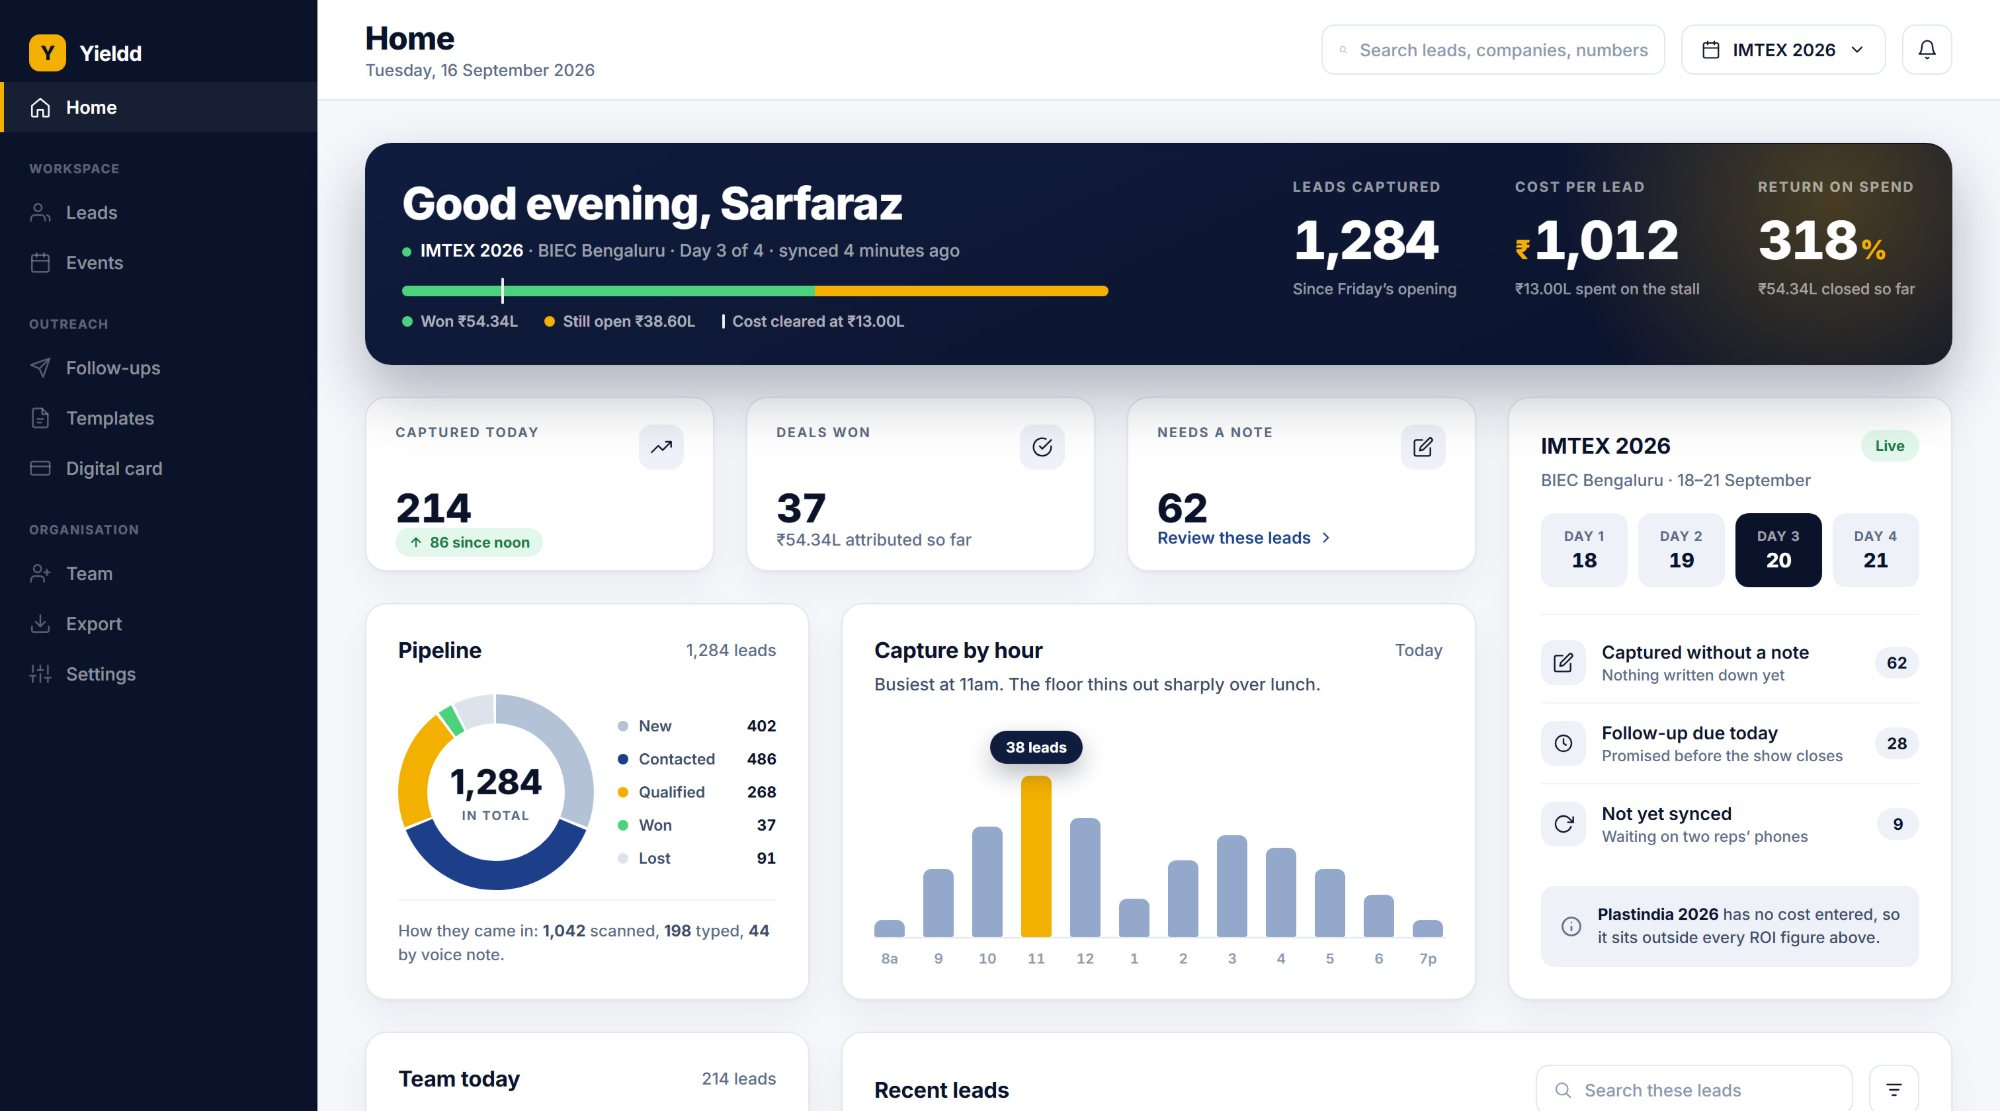
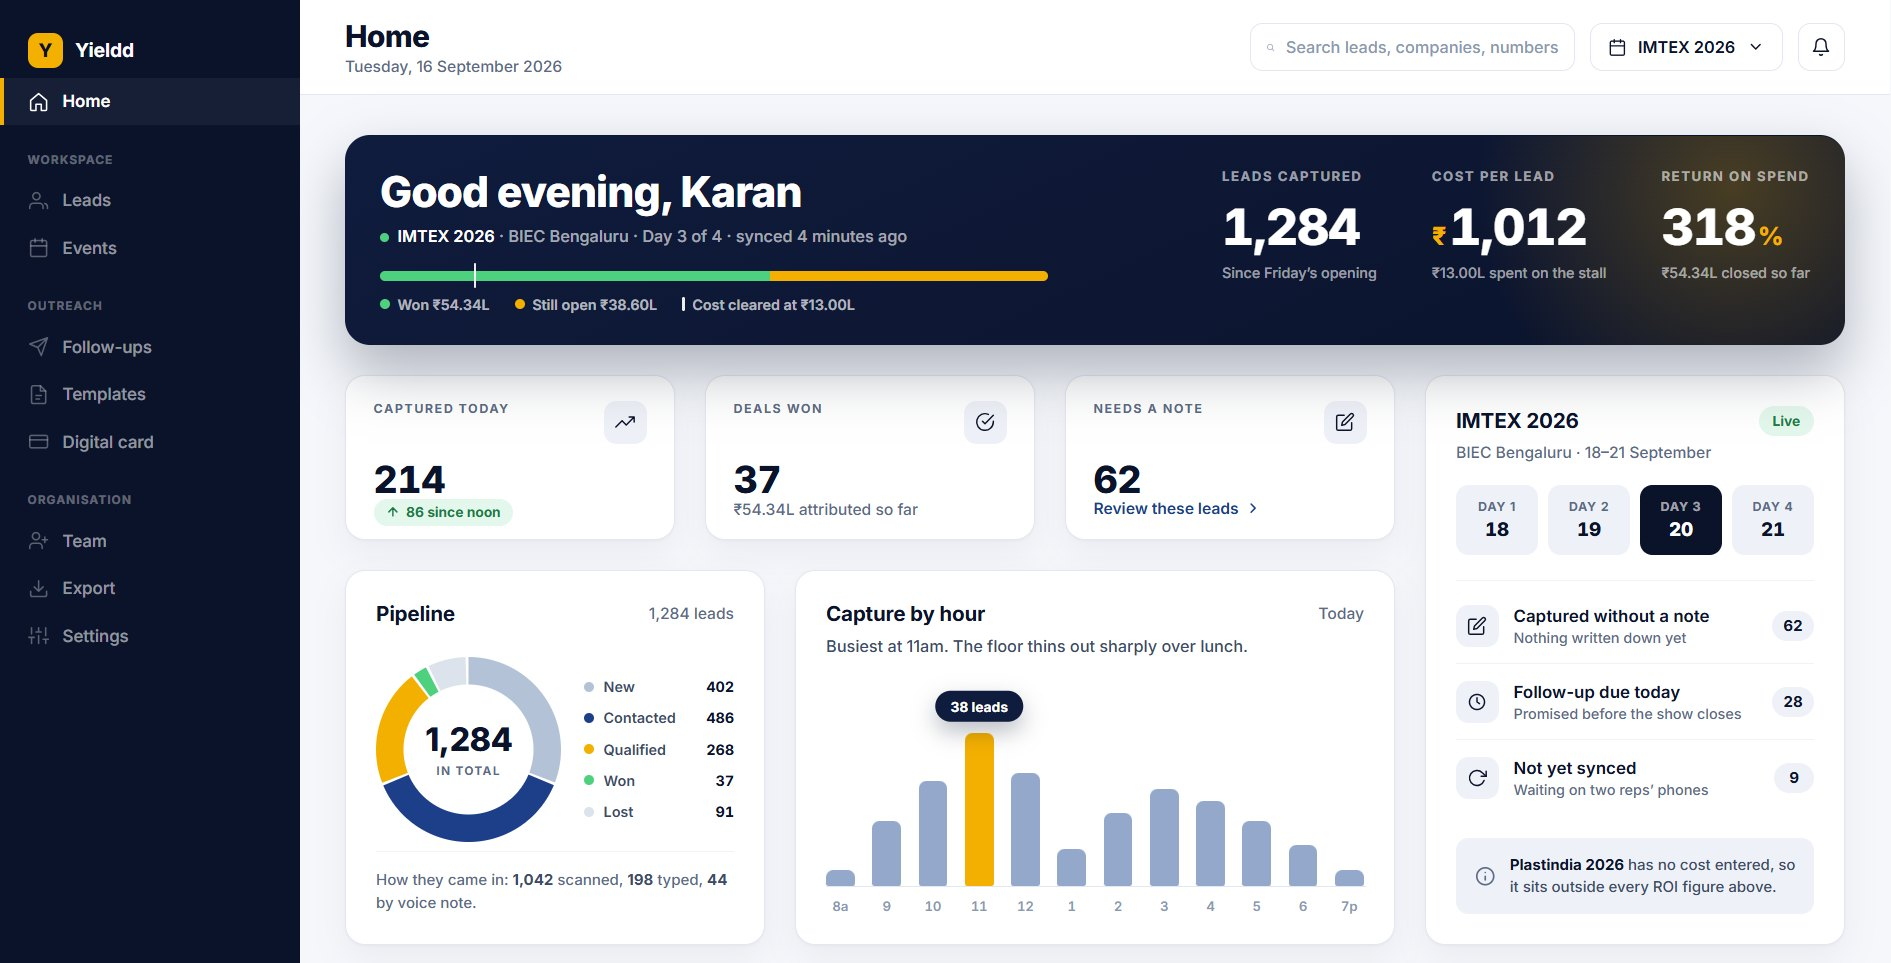
Sit the dashboard shot in a bezel, and cut it off above the half-row
The screenshot read as a flat picture pasted onto the navy. It now sits in a
translucent bezel with its own hairline, a lit top edge, a three-layer shadow
and a slight backward tilt, so it reads as a screen rather than an image.

The transform is written as a raw CSS `transform` property rather than
Tailwind's rotate-x/perspective utilities, which compile to --tw-* variables -
the family AGENTS.md warns about.

The shot is also shorter. It is re-rendered from the HTML source in
design/dash-home-redesign rather than trimmed from the old JPEG, which meant
the crop could land exactly above the "Team today" row: no card is half cut
any more, and the hero no longer pushes the rest of the page so far down.
Re-rendering also carried the name change through - the greeting reads Karan.

Separately, AutoGrid was laying four cards out in five tracks wherever the
container happened to fit five, leaving an empty cell's worth of space at the
end of the row. The four stat cards under the hero stopped about 250px short
of the right edge because of it. Columns are now capped at the number of
children.

diff --git a/components/web/Hero.tsx b/components/web/Hero.tsx
@@ -60,58 +60,70 @@ function Tick() {
  * The product shot.
  *
  * A real screenshot of the Yieldd web dashboard, not a drawn approximation.
- * An earlier version of this file rebuilt a fake dashboard out of Views — it
+ * An earlier version of this file rebuilt a fake dashboard out of Views - it
  * looked plausible and showed nothing the product actually does.
  *
- * The asset is CROPPED AT BUILD TIME, not at render: the top 70% of the
- * 3024x2400 source, scaled to 2000x1111 (968KB -> 190KB, still 2x for the
- * ~1000px it displays at). Cropping here rather than in the layout is what
- * keeps this component trivial — the frame and the image share one aspect
- * ratio, so nothing has to overflow and nothing has to be clipped.
+ * The asset is rendered and cropped AT BUILD TIME from the HTML source in
+ * design/dash-home-redesign, not trimmed at render: 1891x963, cut just above
+ * the "Team today" row so the shot stays shallow and every card in it is
+ * whole. Cropping the file rather than the layout is what keeps this
+ * component simple - the frame and the image share one aspect ratio, so
+ * nothing overflows and nothing is clipped.
  *
- * Trying it the other way round is a trap worth recording. react-native-web's
- * Image renders <div><img></div> and moves an `aspectRatio` style onto that
- * wrapper div, not onto the <img>. So a frame with one aspect and an image
- * with another does not clip the way it reads: resizeMode="cover" resolves
- * against the wrapper's box and crops the SIDES instead, which quietly cut
- * the sidebar and the search field off this screenshot.
+ * Doing it the other way round is a trap worth recording. react-native-web
+ * renders Image as <div><img>, moves an `aspectRatio` style onto that wrapper,
+ * and - for a require()d asset - also writes the intrinsic pixel size out as
+ * an explicit width/height. That explicit height beats both the aspect ratio
+ * and `inset: 0`, so the element keeps its natural height inside a shorter
+ * frame and resizeMode="cover" crops the SIDES to compensate, quietly cutting
+ * off the sidebar and the search field. Absolute positioning plus an explicit
+ * 100%/100% is what finally overrides it.
  * ---------------------------------------------------------------------- */
 
 const DASHBOARD = require('../../assets/product/dashboard-home.jpg');
-const DASHBOARD_ASPECT = 2000 / 1111;
+const DASHBOARD_ASPECT = 1891 / 963;
 
 function ProductShot() {
   return (
-    <View className="rounded-t-[16px] overflow-hidden bg-white shadow-[0_-18px_50px_rgba(4,12,30,0.24),0_40px_90px_rgba(4,12,30,0.32)]">
-      {/* Browser chrome, so the screenshot reads as a product in a window
-          rather than a picture dropped onto the page. */}
-      <View className="flex-row items-center gap-[7px] px-4 py-[11px] border-b border-hairline bg-white">
-        <View className="w-[9px] h-[9px] rounded-full bg-hairline" />
-        <View className="w-[9px] h-[9px] rounded-full bg-hairline" />
-        <View className="w-[9px] h-[9px] rounded-full bg-hairline" />
-        <Text className="[font-family:Figtree,system-ui,sans-serif] text-[11.5px] text-label ml-[10px]">
-          app.yieldd.co
-        </Text>
-      </View>
+    /* A slight backward tilt. Written as a raw `transform` property rather
+       than Tailwind's rotate-x/perspective utilities: those compile to
+       --tw-* variables, and AGENTS.md records that a component gaining a
+       variable-backed class trips react-native-css-interop. A plain CSS
+       transform carries no variables. The origin is the top edge so the shot
+       leans away from the reader rather than sinking into the page. */
+    <View className="[transform:perspective(2200px)_rotateX(3deg)] [transform-origin:50%_0%]">
+      {/* Bezel. A translucent outer shell with its own hairline, so the white
+          screenshot has something to sit in instead of ending abruptly
+          against the navy. */}
+      <View className="rounded-[20px] bg-white/[0.07] border border-white/[0.16] p-[7px] shadow-[0_2px_6px_rgba(4,12,30,0.22),0_20px_44px_rgba(4,12,30,0.38),0_64px_120px_rgba(4,12,30,0.46)]">
+        {/* The window itself. */}
+        <View className="rounded-[14px] overflow-hidden bg-white">
+          {/* A one-pixel highlight along the top edge. This is what sells the
+              bevel - a lit edge reads as a raised surface where a flat border
+              reads as a sticker. */}
+          <View pointerEvents="none" className="absolute top-0 left-0 right-0 h-px bg-white/[0.55] z-10" />
 
-      {/* The wrapper owns the aspect ratio; the image fills it absolutely.
-          Putting `aspectRatio` on the Image itself does not work here:
-          react-native-web resolves a require()d asset's intrinsic size and
-          writes it out as an explicit `height`, which beats the aspect-ratio
-          it sets alongside. The element then stays 1111px tall instead of
-          555px, and resizeMode crops to compensate.
+          <View className="flex-row items-center gap-[7px] px-4 py-[11px] border-b border-hairline bg-white">
+            <View className="w-[9px] h-[9px] rounded-full bg-hairline" />
+            <View className="w-[9px] h-[9px] rounded-full bg-hairline" />
+            <View className="w-[9px] h-[9px] rounded-full bg-hairline" />
+            <Text className="[font-family:Figtree,system-ui,sans-serif] text-[11.5px] text-label ml-[10px]">
+              app.yieldd.co
+            </Text>
+          </View>
 
-          Absolute positioning alone is not enough either - the intrinsic
-          width/height still beat `inset: 0`. The explicit 100%/100% is what
-          finally overrides them, so the image is exactly the wrapper's box
-          and resizeMode has nothing left to crop. */}
-      <View className="w-full overflow-hidden" style={{ aspectRatio: DASHBOARD_ASPECT }}>
-        <Image
-          source={DASHBOARD}
-          style={[StyleSheet.absoluteFill, { width: '100%', height: '100%' }]}
-          resizeMode="cover"
-          accessibilityLabel="The Yieldd dashboard showing leads captured, cost per lead and return on spend for a live event"
-        />
+          {/* The wrapper owns the aspect ratio; the image fills it absolutely
+              with explicit 100%/100%, which is what overrides the intrinsic
+              size react-native-web writes onto a require()d asset. */}
+          <View className="w-full overflow-hidden" style={{ aspectRatio: DASHBOARD_ASPECT }}>
+            <Image
+              source={DASHBOARD}
+              style={[StyleSheet.absoluteFill, { width: '100%', height: '100%' }]}
+              resizeMode="cover"
+              accessibilityLabel="The Yieldd dashboard showing leads captured, cost per lead and return on spend for a live event"
+            />
+          </View>
+        </View>
       </View>
     </View>
   );

diff --git a/components/web/primitives/AutoGrid.tsx b/components/web/primitives/AutoGrid.tsx
@@ -22,7 +22,11 @@ interface Props {
   /** The minmax() floor: the narrowest a column may get before one is dropped. */
   min: number;
   gap?: number;
-  /** Cap the column count regardless of available width. */
+  /**
+   * Cap the column count regardless of available width. Defaults to the
+   * number of children, which is almost always what you want - more tracks
+   * than items just leaves a hole at the end of the row.
+   */
   max?: number;
   /**
    * Let a short last row stretch to fill, as CSS Grid's 1fr does. Off by
@@ -43,11 +47,18 @@ export function AutoGrid({
   children,
 }: Props) {
   const [width, setWidth] = useState(0);
+  const count = Children.count(children);
 
   // Before measurement, render a single column. Any other guess flashes a
   // wrong layout on first paint.
+  //
+  // The column count is capped at the number of children as well as at `max`.
+  // Without that cap a container wide enough for five tracks lays four cards
+  // out in five, and the row stops short with an empty fifth cell's worth of
+  // space on the right - which is exactly what happened to the four stat
+  // cards under the hero.
   const columns = width
-    ? Math.min(max ?? 99, Math.max(1, Math.floor((width + gap) / (min + gap))))
+    ? Math.min(max ?? count, count, Math.max(1, Math.floor((width + gap) / (min + gap))))
     : 1;
   // Typed as a percentage literal so it satisfies DimensionValue; a plain
   // string is rejected by ViewStyle.
